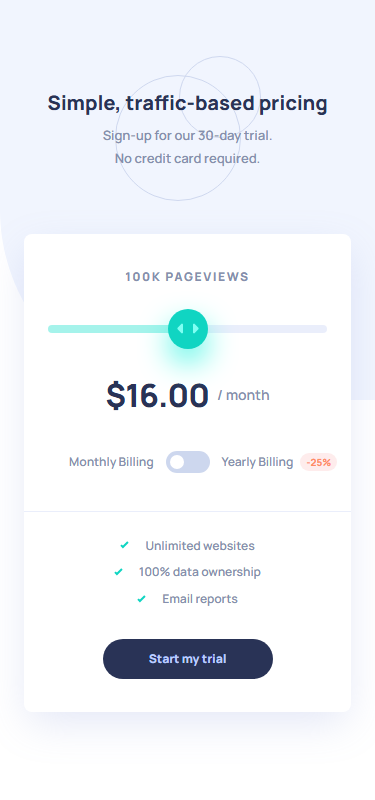
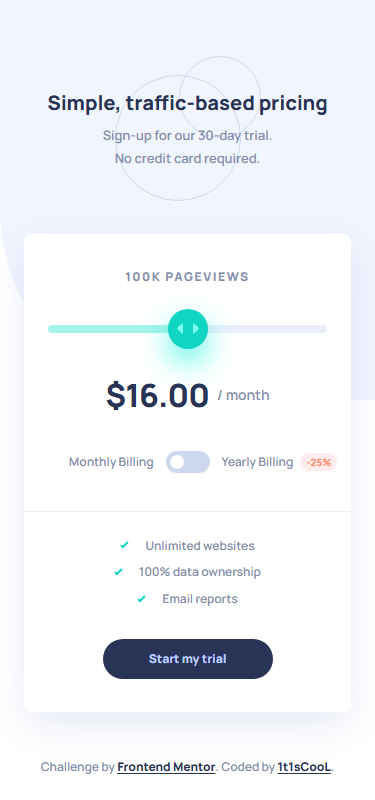
feat: add attribution footer

Changed region(s): [[0.1173, 0.9375, 0.88, 0.9688]]

diff --git a/app/pages/pricing/ui/PricingPage.test.ts b/app/pages/pricing/ui/PricingPage.test.ts
@@ -3,19 +3,30 @@ import { mount } from '@vue/test-utils';
 import PricingPage from './PricingPage.vue';
 import { PricingCard } from '../../../widgets/pricing-card';
 import { PricingHeader } from '../../../widgets/pricing-header';
+import { SiteFooter } from '../../../widgets/site-footer';
+
+const follows = (a: Element, b: Element) => Boolean(a.compareDocumentPosition(b) & Node.DOCUMENT_POSITION_FOLLOWING);
 
 describe('PricingPage', () => {
-  it('wraps the content in a main landmark', () => {
-    expect(mount(PricingPage).get('main').classes()).toContain('pricing-page');
+  it('puts the header and the card inside the main landmark', () => {
+    const main = mount(PricingPage).get('main');
+
+    expect(main.findComponent(PricingHeader).exists()).toBe(true);
+    expect(main.findComponent(PricingCard).exists()).toBe(true);
   });
 
   it('renders the header before the card', () => {
     const wrapper = mount(PricingPage);
-    const header = wrapper.findComponent(PricingHeader);
-    const card = wrapper.findComponent(PricingCard);
 
-    expect(header.exists()).toBe(true);
-    expect(card.exists()).toBe(true);
-    expect(header.element.compareDocumentPosition(card.element) & Node.DOCUMENT_POSITION_FOLLOWING).toBeTruthy();
+    expect(follows(wrapper.findComponent(PricingHeader).element, wrapper.findComponent(PricingCard).element)).toBe(true);
+  });
+
+  it('renders the attribution footer after main, outside of it', () => {
+    const wrapper = mount(PricingPage);
+    const footer = wrapper.findComponent(SiteFooter);
+
+    expect(footer.exists()).toBe(true);
+    expect(wrapper.get('main').element.contains(footer.element)).toBe(false);
+    expect(follows(wrapper.get('main').element, footer.element)).toBe(true);
   });
 });

diff --git a/app/pages/pricing/ui/PricingPage.vue b/app/pages/pricing/ui/PricingPage.vue
@@ -1,21 +1,27 @@
 <script setup lang="ts">
 import { PricingCard } from '../../../widgets/pricing-card';
 import { PricingHeader } from '../../../widgets/pricing-header';
+import { SiteFooter } from '../../../widgets/site-footer';
 </script>
 
 <template>
-  <main class="pricing-page">
-    <PricingHeader />
-    <PricingCard />
-  </main>
+  <div class="pricing-page">
+    <main class="pricing-page__main">
+      <PricingHeader />
+      <PricingCard />
+    </main>
+    <SiteFooter class="pricing-page__footer" />
+  </div>
 </template>
 
 <style scoped>
 .pricing-page {
   position: relative;
   isolation: isolate;
+  display: flex;
+  flex-direction: column;
   min-height: 100vh;
-  padding: 0 1.5rem 8.5rem;
+  padding-inline: 1.5rem;
 }
 
 .pricing-page::before {
@@ -28,14 +34,19 @@ import { PricingHeader } from '../../../widgets/pricing-header';
   background-color: var(--slate-100);
 }
 
-@media (max-width: 47.9375em) {
-  .pricing-page {
-    padding-bottom: 5.5rem;
-  }
+.pricing-page__footer {
+  margin-top: auto;
+  padding-top: 2.5rem;
+}
 
+@media (max-width: 47.9375em) {
   .pricing-page::before {
     height: 25rem;
     border-bottom-left-radius: 11.875rem;
+  }
+
+  .pricing-page__footer {
+    padding-top: 2rem;
   }
 }
 </style>

diff --git a/app/widgets/site-footer/ui/SiteFooter.test.ts b/app/widgets/site-footer/ui/SiteFooter.test.ts
@@ -1,0 +1,27 @@
+import { describe, expect, it } from 'vitest';
+import { mount } from '@vue/test-utils';
+import SiteFooter from './SiteFooter.vue';
+
+describe('SiteFooter', () => {
+  it('credits the challenge and the author', () => {
+    const footer = mount(SiteFooter).get('footer');
+
+    expect(footer.text().replace(/\s+/g, ' ')).toBe('Challenge by Frontend Mentor. Coded by 1t1sCooL.');
+  });
+
+  it('links to Frontend Mentor and the author site', () => {
+    const links = mount(SiteFooter).findAll('a');
+
+    expect(links.map((a) => [a.text(), a.attributes('href')])).toEqual([
+      ['Frontend Mentor', 'https://www.frontendmentor.io?ref=challenge'],
+      ['1t1sCooL', 'https://mmalabugin.ru/'],
+    ]);
+  });
+
+  it('opens links in a new tab without leaking the opener', () => {
+    for (const link of mount(SiteFooter).findAll('a')) {
+      expect(link.attributes('target')).toBe('_blank');
+      expect(link.attributes('rel')).toBe('noopener noreferrer');
+    }
+  });
+});

diff --git a/app/widgets/site-footer/ui/SiteFooter.vue b/app/widgets/site-footer/ui/SiteFooter.vue
@@ -1,0 +1,36 @@
+<template>
+  <footer class="site-footer">
+    <p>
+      Challenge by
+      <a href="https://www.frontendmentor.io?ref=challenge" target="_blank" rel="noopener noreferrer">Frontend Mentor</a>.
+      Coded by <a href="https://mmalabugin.ru/" target="_blank" rel="noopener noreferrer">1t1sCooL</a>.
+    </p>
+  </footer>
+</template>
+
+<style scoped>
+.site-footer {
+  padding-block: 1.5rem;
+  font-size: 0.75rem;
+  line-height: 1.5;
+  text-align: center;
+  color: var(--slate-400);
+}
+
+.site-footer a {
+  font-weight: 800;
+  color: var(--slate-800);
+  text-decoration: underline;
+  text-underline-offset: 0.125rem;
+}
+
+.site-footer a:hover {
+  color: var(--green-400);
+}
+
+@media (prefers-reduced-motion: no-preference) {
+  .site-footer a {
+    transition: color 0.15s ease;
+  }
+}
+</style>

diff --git a/app/widgets/site-footer/index.ts b/app/widgets/site-footer/index.ts
@@ -1,0 +1,1 @@
+export { default as SiteFooter } from './ui/SiteFooter.vue';

diff --git a/README.md b/README.md
@@ -54,14 +54,14 @@ Users should be able to:
   - `shared` — `RangeSlider`, `ToggleSwitch`, `IconCheck`, `formatUsd`, `clamp` / `progressPercent`
   - `entities/plan` — tiers, the 25% yearly discount, `priceFor`, `PriceTag`, `PerkList`
   - `features` — `select-pageviews` (tier slider), `toggle-billing` (monthly/yearly switch + badge)
-  - `widgets` — `pricing-card` (with the `usePricing` composable), `pricing-header`
+  - `widgets` — `pricing-card` (with the `usePricing` composable), `pricing-header`, `site-footer` (attribution)
   - `pages/pricing`
 - **Logic outside templates.** Pricing is pure functions in `entities/plan/model`; the card's state is a tiny `usePricing()` composable (`tierIndex`, `billing` refs + computed `tier` / `price`). Components bind with `defineModel()` and writable `computed` adapters (`boolean ⇄ 'monthly' | 'yearly'`, `number → clamped tier index`).
 - **Native controls, custom skin.** The slider is a real `<input type="range">` and the toggle is `<input type="checkbox" role="switch">` with `appearance: none`, so keyboard, touch, focus and screen readers work for free. The filled part of the track is a gradient whose stop is derived from a `--fill` ratio and the thumb width (`calc(thumb / 2 + (100% - thumb) * var(--fill))`), so the fill ends exactly under the thumb's centre; Firefox uses `::-moz-range-progress`.
 - **Accessibility.** `aria-valuetext="100K pageviews"` instead of "2", the price is an `aria-live="polite"` region, the switch is labelled by "Yearly Billing" and described by the discount badge. The mobile badge shows `-25%` visually while assistive tech still reads "25% discount".
 - **Performance.** Prerendered HTML and one render-blocking stylesheet. Manrope is subset with fontTools to printable ASCII and the `wght` 600–800 range (24 kB → 12.5 kB woff2) and inlined into that CSS as a data URI, so there is no font request, no preload and no swap: the first paint is already in Manrope, even on a throttled connection. Small SVGs and the favicon are inlined too.
 - Desktop-first CSS (BEM in scoped styles), `em` media queries, `rem` sizes, motion only inside `@media (prefers-reduced-motion: no-preference)`.
-- **Tests:** Vitest + `@vue/test-utils` + happy-dom — 83 tests: unit tests for the pricing model, formatters and `usePricing`, a test for every component (including `app.vue` with a stubbed `useHead`), and an integration suite that drives the real slider and switch through all tiers in both billing modes. Plus `eslint-plugin-vue` and `nuxt typecheck` (vue-tsc).
+- **Tests:** Vitest + `@vue/test-utils` + happy-dom — 87 tests: unit tests for the pricing model, formatters and `usePricing`, a test for every component (including `app.vue` with a stubbed `useHead`), and an integration suite that drives the real slider and switch through all tiers in both billing modes. Plus `eslint-plugin-vue` and `nuxt typecheck` (vue-tsc).
 
 ### What I learned
 
